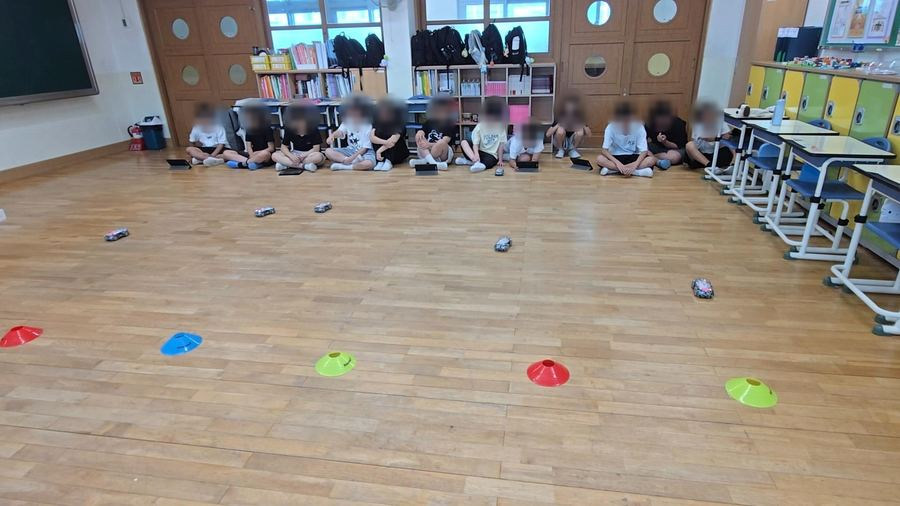
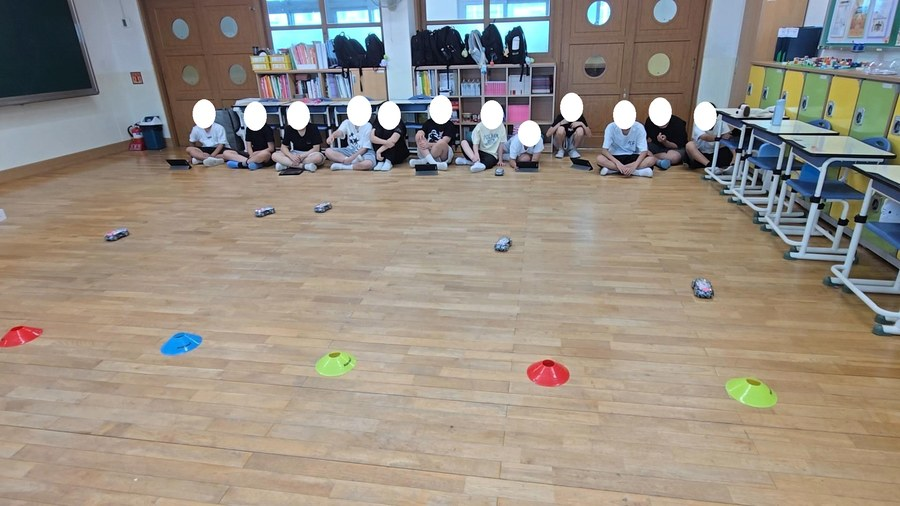
내용 구조화 사진 2장: 얼굴을 흐림 대신 하얀 타원으로 가림 (다른 사진과 통일)
Claude-Session: https://claude.ai/code/session_013an5U4ybcY8sP7oFvHfYin

Changed region(s): [[0.1867, 0.1779, 0.8089, 0.2964]]

diff --git a/README.md b/README.md
@@ -3,7 +3,7 @@
 AIEDAP 마스터교원 연수 · 우수사례 탐험. 17·18회, 2025, 20회 연구대회 사례를 여섯 가지 렌즈와 세 번의 의사결정 지점으로 살펴보는 정적 웹페이지입니다. 빌드 없이 HTML·CSS·JS만 씁니다.
 
 - `index.html`: 앱 전체
-- `img/`: 발표 자료(PPT)에서 가져온 수업 사진 (학생 얼굴은 흐리게 처리)
+- `img/`: 발표 자료(PPT)에서 가져온 수업 사진 (학생 얼굴은 하얀 타원으로 가림)
 - `apps-script/Code.gs`: 연수 중 선택(A~D)과 공유에 동의한 이유를 구글 시트에 모으는 구글 앱스 스크립트
 - `apps-script/AI수업렌즈_연수응답집계.xlsx`: 응답·집계 시트 (구글 드라이브에 올려 스프레드시트로 열기)
 
